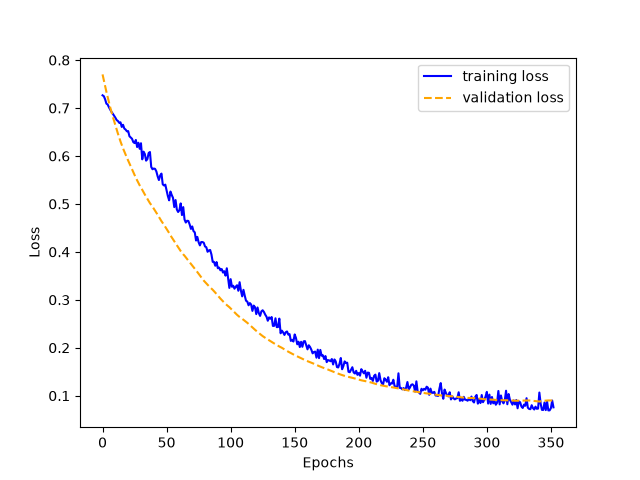
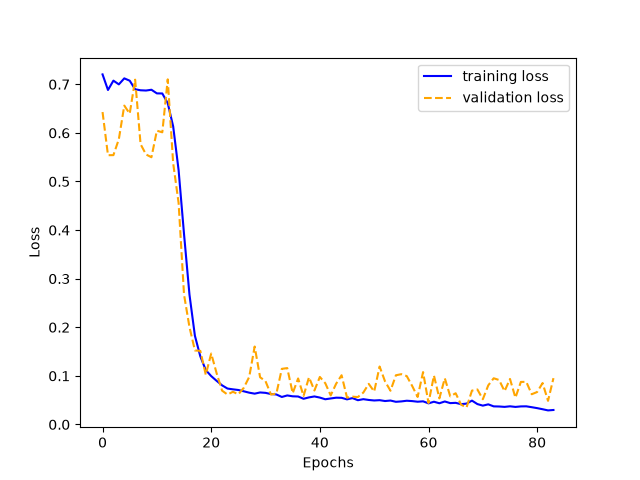
refacto backward for clarity

diff --git a/src/DenseLayer.py b/src/DenseLayer.py
@@ -56,12 +56,14 @@ class DenseLayer:
     def backward(self, grad_output: Tensor) -> Tensor:
         d_Z = self._compute_activation_gradient(grad_output)
 
-        d_weights, d_biases, grad_input = self._compute_gradients(d_Z)
-
-        self.weights, self.biases = self.optimizer.update(
-            self.weights, self.biases, d_weights, d_biases)
+        self.d_weights, self.d_biases, grad_input = (
+            self._compute_gradients(d_Z))
 
         return grad_input
+
+    def update(self) -> None:
+        self.weights, self.biases = self.optimizer.update(
+            self.weights, self.biases, self.d_weights, self.d_biases)
 
     @classmethod
     def from_computed(cls, w: Tensor, b: Tensor, act: str) -> DenseLayer:

diff --git a/src/Trainer.py b/src/Trainer.py
@@ -32,6 +32,8 @@ class Trainer:
                 d_Z = forward_pass - np.column_stack((1 - y_batch, y_batch))
                 self.model.backward(d_Z)
 
+                self.model.update()
+
             train_loss /= len(train_dataloader)
             train_acc /= len(train_dataloader)
             val_loss, val_acc = self.evaluate(val_dataloader)

diff --git a/src/NeuralNetwork.py b/src/NeuralNetwork.py
@@ -43,6 +43,10 @@ class NeuralNetwork:
             out = layer.backward(out)
         return out
 
+    def update(self) -> None:
+        for layer in self.layers:
+            layer.update()
+
     def export(self, path: str) -> None:
         nn_dict: dict[str, Tensor | str] = {}
 
